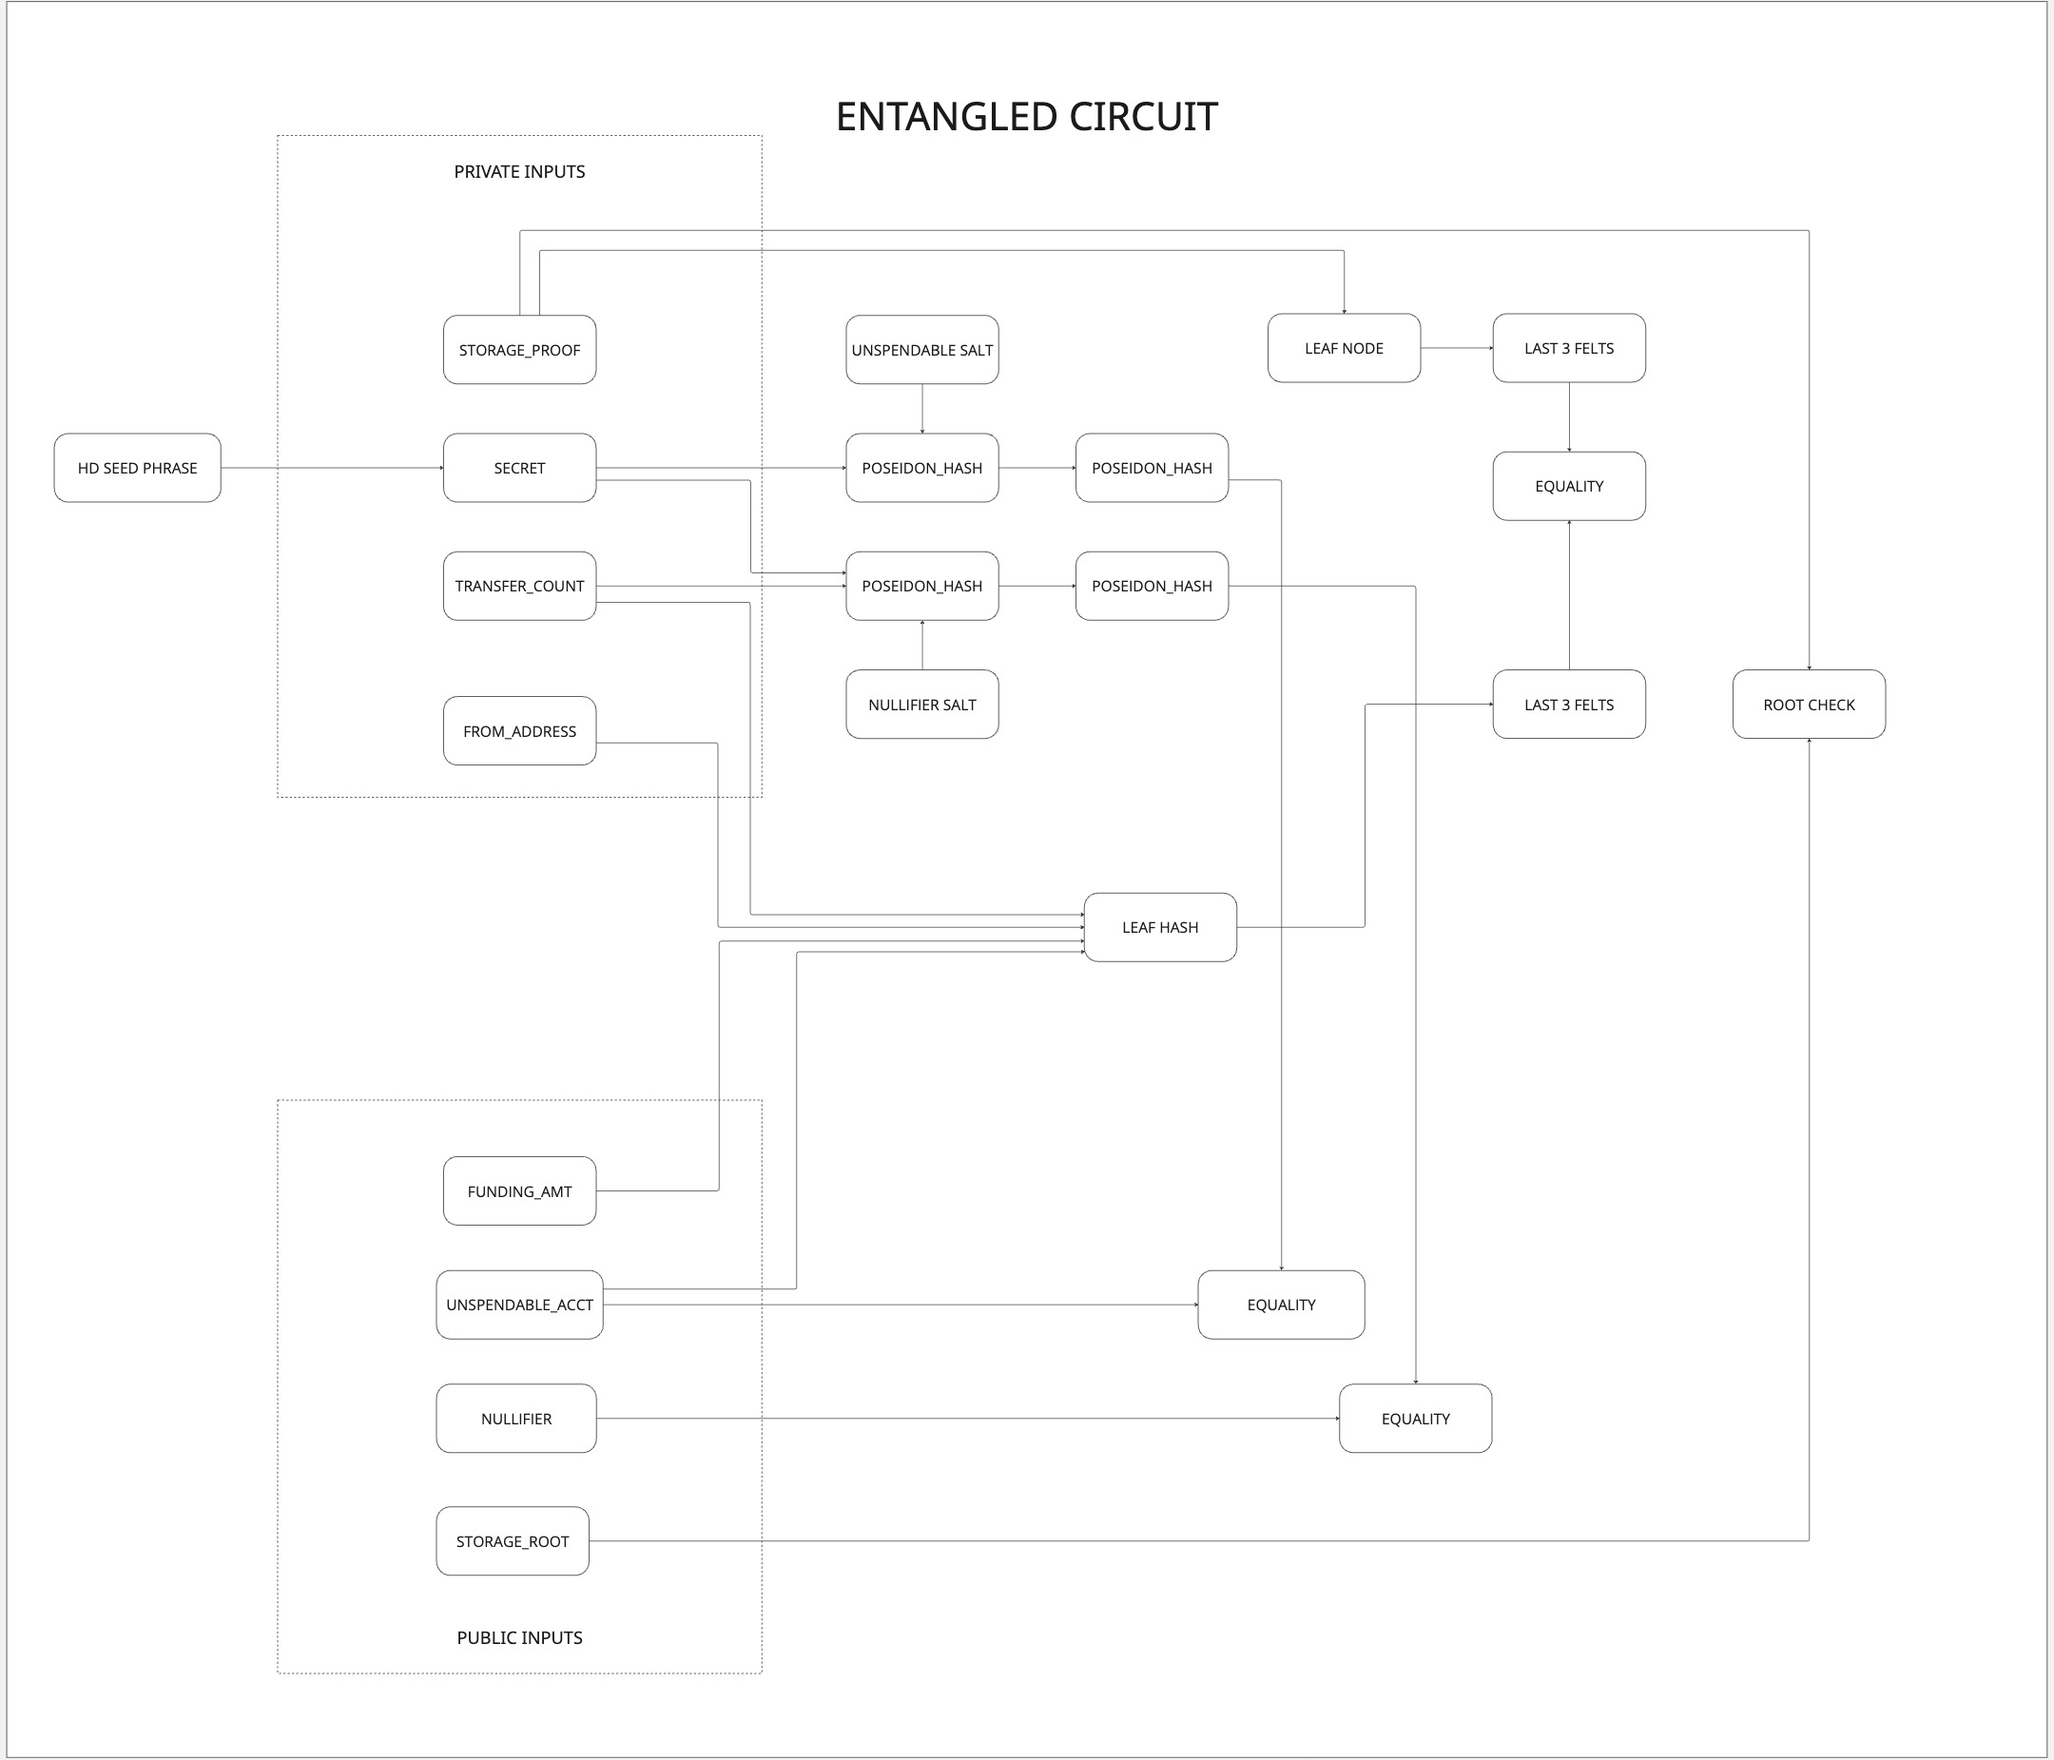
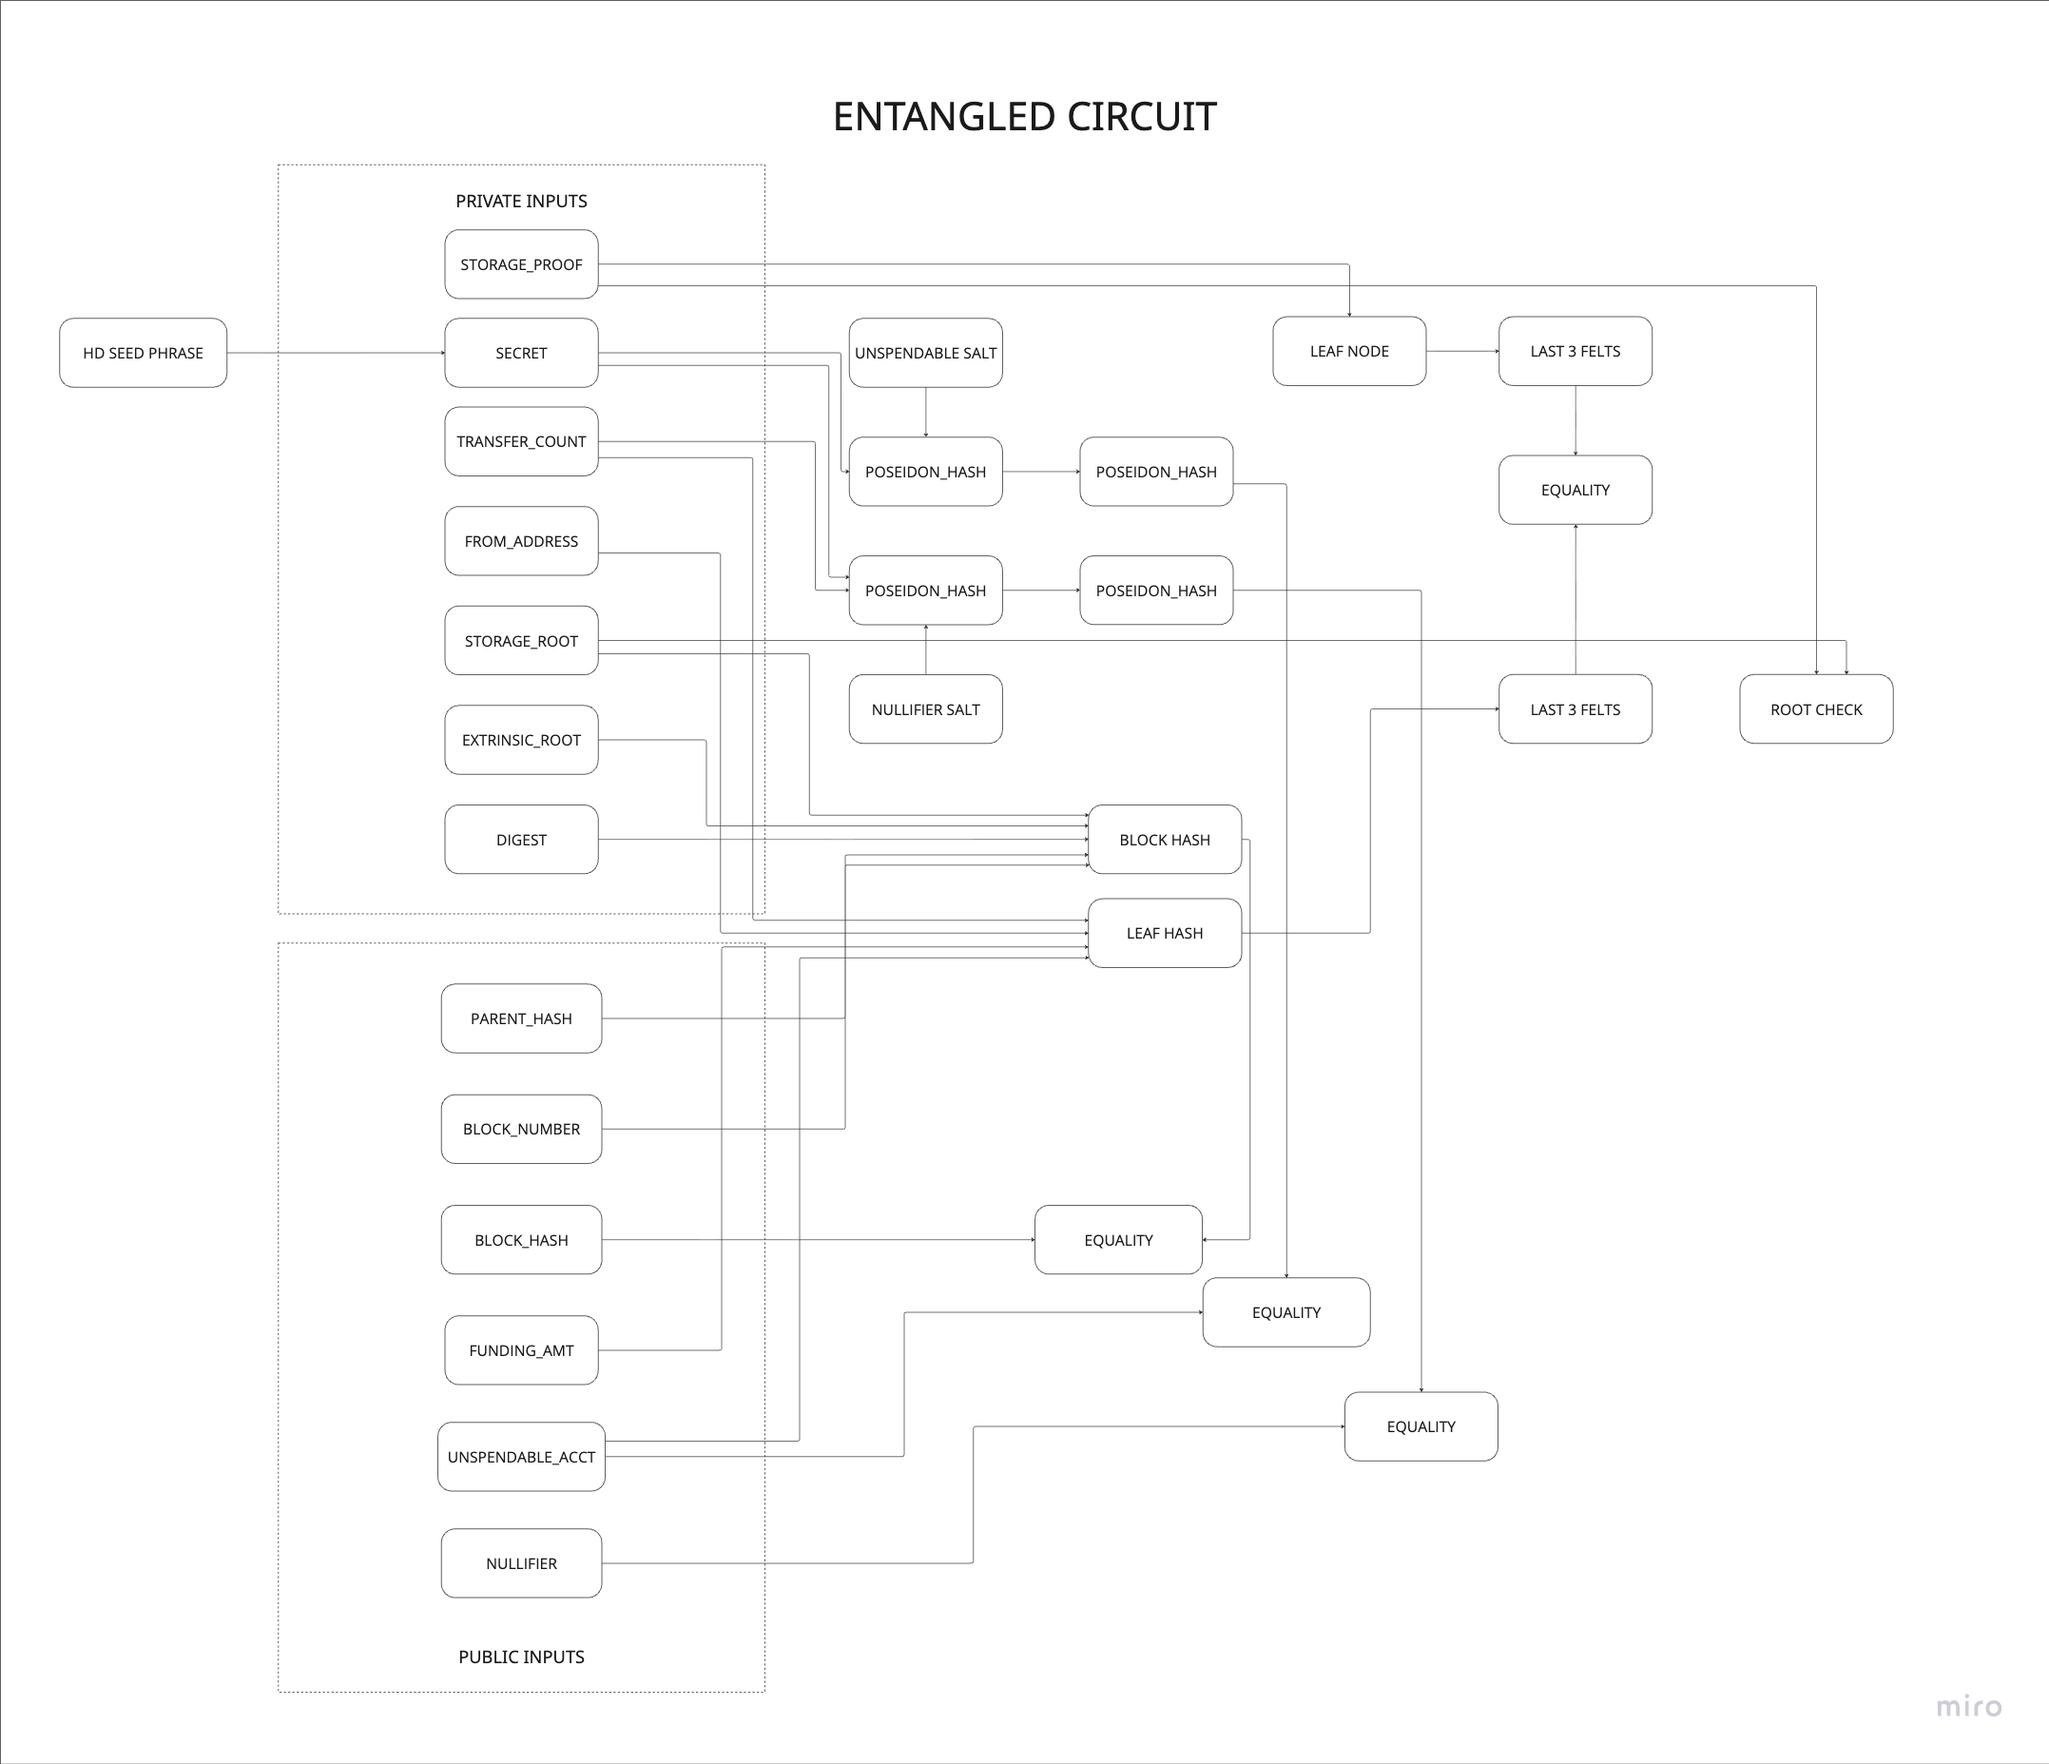
*update images and docs for qip-0005 (#18)

diff --git a/qip-0005.md b/qip-0005.md
@@ -16,7 +16,7 @@ It moves balance-verification off-chain so that on-chain verification simply has
 It uses provably-unspendable addresses and nullifiers to prevent double-spends and storage-proofs to prove that funding took place. 
 These signatures can be aggregated because the proof system we use ["plonky2"](qip-0005/QIP-0005-2.pdf) supports aggregation. This allows an essentially 
 unlimited number of transactions to be represented in a single proof. The public inputs 
-(nullifiers, storage_roots, exit_addresses, exit_amounts) then become the limiting factor, with ~256 additional bytes per transaction. 
+(nullifiers, block_hash, parent_hash, block_number, exit_addresses, exit_amounts) then become the limiting factor, with ~256 additional bytes per transaction. 
 
 We call this scheme "entangled addresses" because the unspendable addresses and exit addresses are invisibly linked, like
 entangled qubits. 
@@ -45,7 +45,7 @@ to finding the preimage of a preimage of a digest.
 
 Users retain this proof of unspendability (secret pre-image) for later claims. Any tokens that are sent to the address 
 are therefore provably burned, and so they can be re-minted without changing the total token supply. Each transfer of tokens
-to the address generates a [TransferProof](https://github.com/Quantus-Network/chain/blob/main/pallets/balances/src/lib.rs#L579) storage object. The user's wallet can generate a storage proof for each 
+to the address generates a [TransferProof](https://github.com/Quantus-Network/chain/blob/main/pallets/balances/src/lib.rs#L524) storage object. The user's wallet can generate a storage proof for each 
 transfer. This storage proof is a merkle-patricia-trie (MPT) proof from a recent storage root (stored in block header) down to 
 a specific storage item (TransferProof in this case). The MPT proof is similar to a Merkle proof, except that instead of 
 each parent being the hash of the children, the hash of each child is part of the parent's data. 
@@ -56,6 +56,8 @@ each TransferProof unique. This global count is included in the nullifier preima
 The secret used to create both the nullifier and the unspendable-account must be retained by the wallet and should therefore 
 be derived deterministically from the wallet seed, similar to private/public keys.
 
+Because substrate doesn't natively cache storage roots, (only block hashes up to a certain depth), and the verifier needs a way to check that the storage root is valid, we include the block hash, parent hash and block number of the block header that contains the storage root as a public input to the circuit. 
+
 
 ### Aggregator Flow
 
@@ -64,18 +66,19 @@ a miner or some untrusted third party. The aggregator takes a set of proofs with
 aggregated proof via plonky2 recursion. The public inputs of the leaves are passed thru in the following manner:
 
 - Nullifiers are passed unchanged
-- Duplicate storage-roots are deduplicated
+- Only the block number and block hash of the most recent block is retained.
 - Duplicate exit-addresses are deduplicated
 - Exit-amounts of duplicate exit-addresses are summed
 
 The deduplication and summing reduce the storage requirements for the chain. This aggregation process can be recursed, 
 so that the many proofs being aggregated become leaves in a tree.
 
+It's important to not that we only support aggregation of transfer proofs across contigious blocks. The reason being is that the circuit verifies connectivity of deduplicated blocks via parent-hash and doesn't account for gaps for the purposes of keeping the circuit constaints low. New sets of aggregated proofs must be created for transfer proofs from non-contiguous blocks.
 
 ### Chain / Verifier Flow
 
 The chain / verifier receives a possibly-aggregated proof and must check the following:
-- Each storage root is real, i.e. that it was included in some recent block header
+- The block hash and block number correspond to a valid block hash in the chain
 - Each nullifier has never been used before
 - The supplied proof is valid
 
@@ -83,6 +86,7 @@ The chain / verifier receives a possibly-aggregated proof and must check the fol
 
 The zk-circuit verifies three things: 
 
+- That the block header (parent hash, block number, storage root, extrinsic root and digest) hashes to the supplied block hash.
 - That the storage proof is valid
 - That the nullifier was computed correctly `nullifier = H(H(salt + secret + global_transfer_count))`
 - That the unspendable address is indeed unspendable
